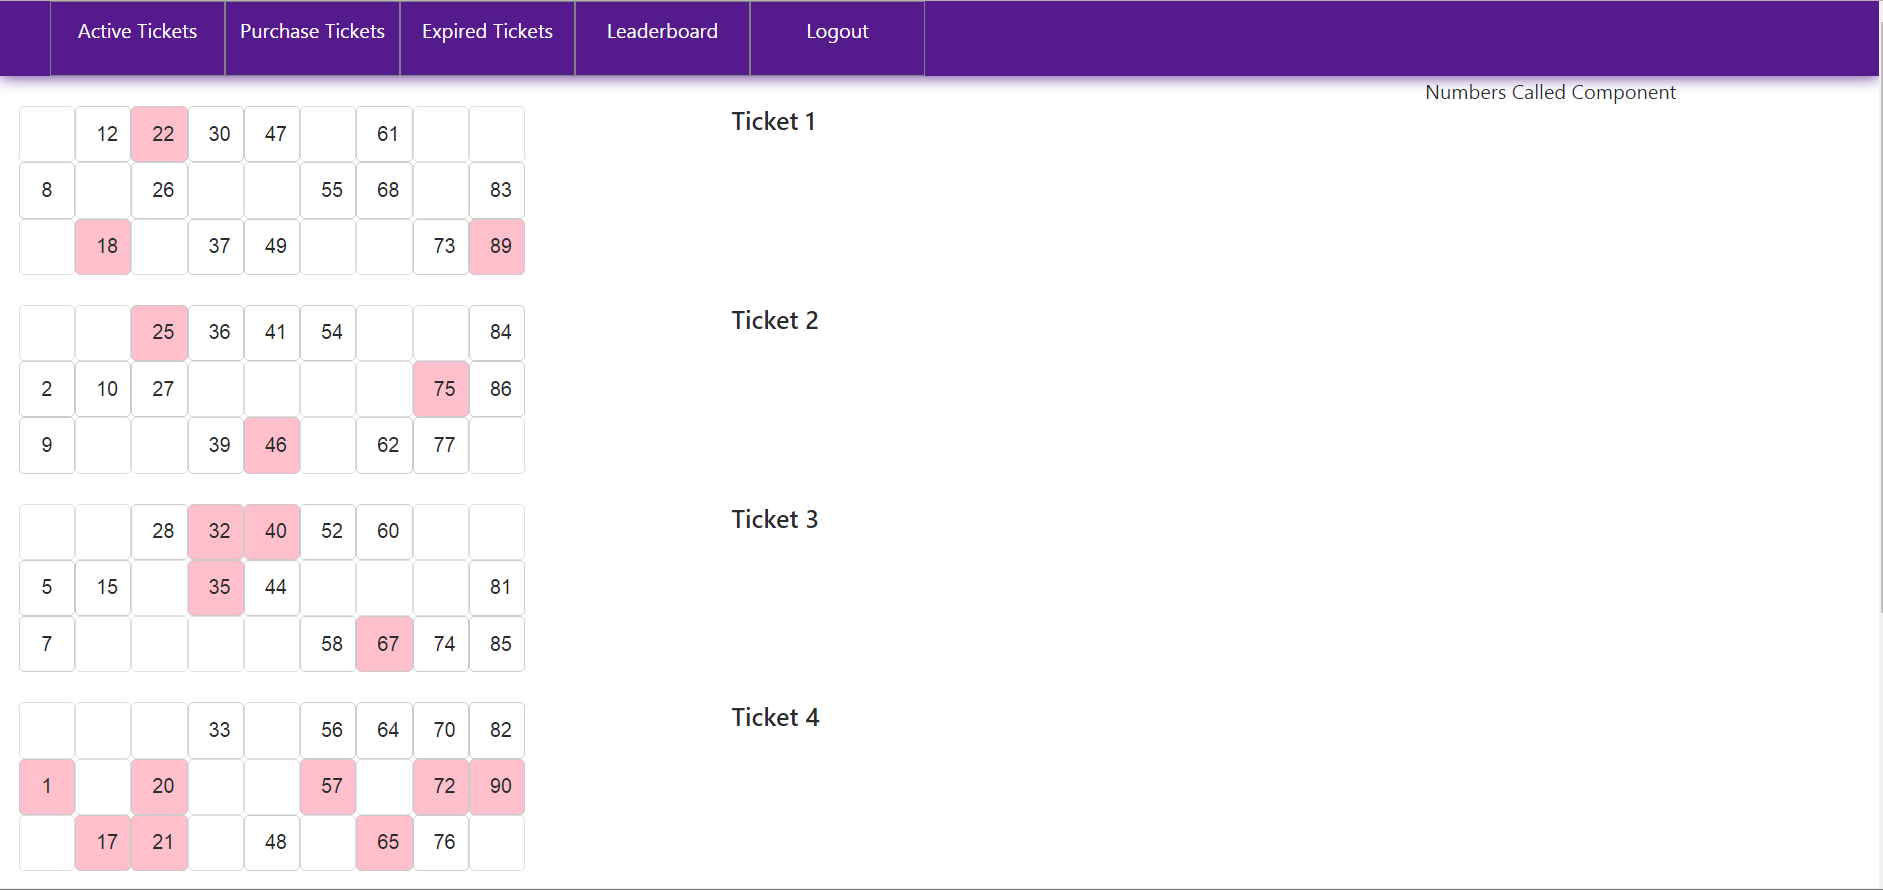
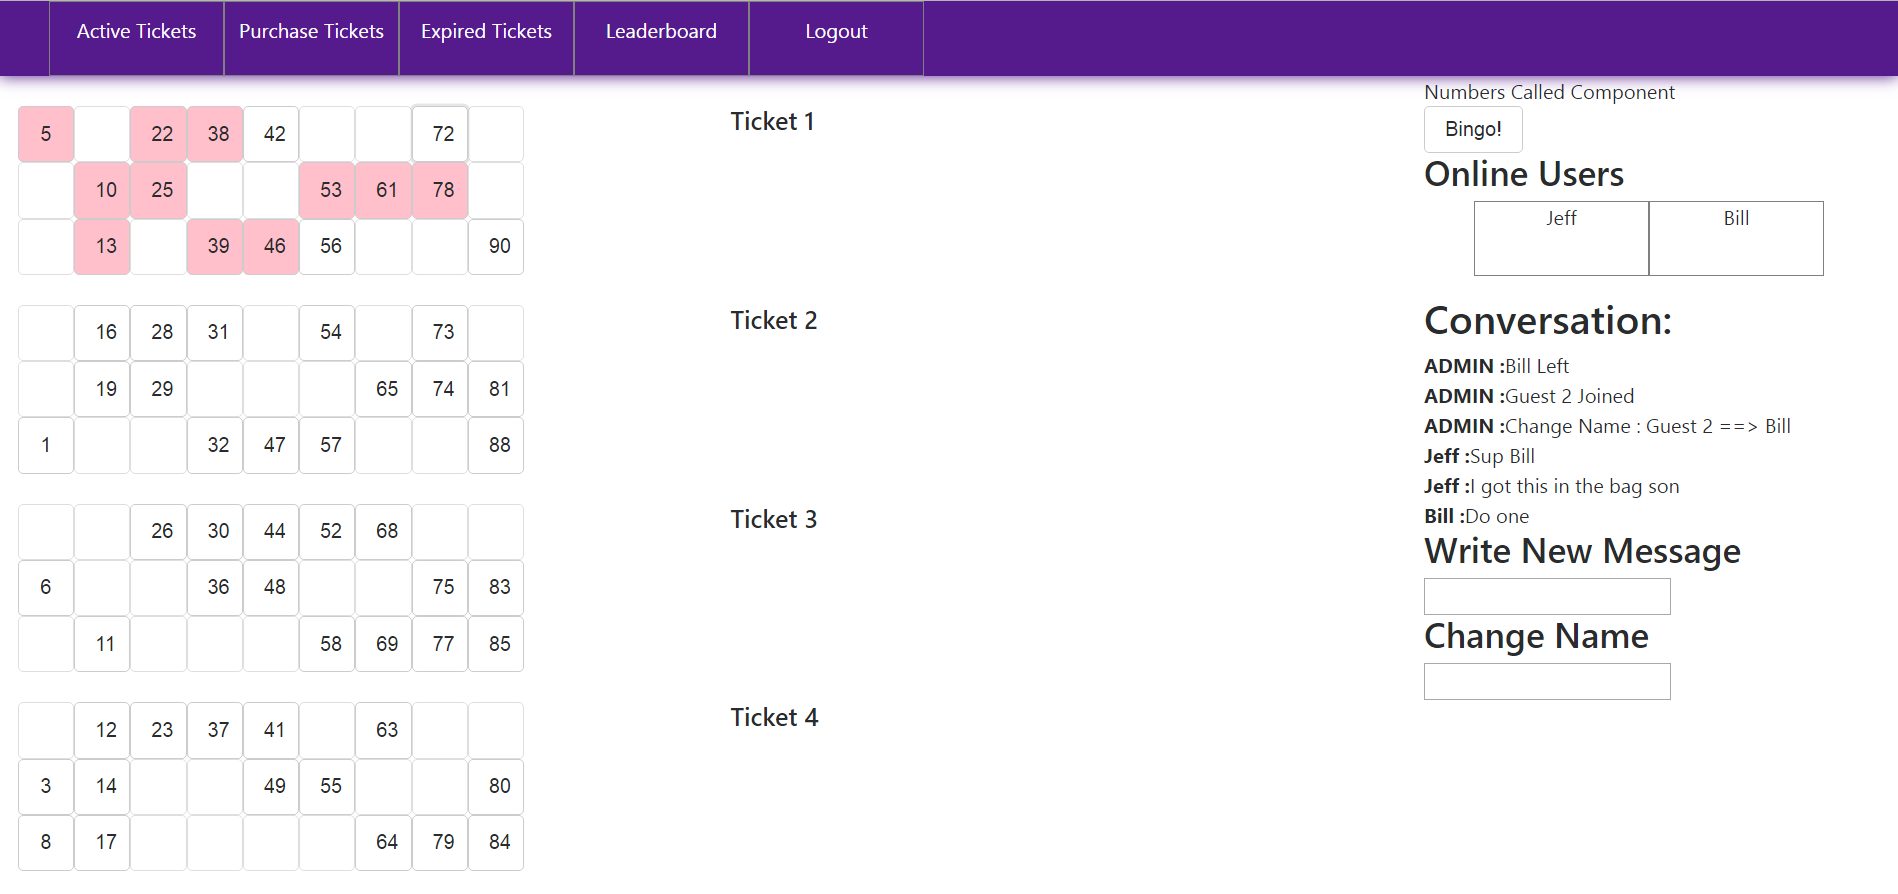
Updated bingo button and screenshot

diff --git a/src/view/components/BingoButton.js b/src/view/components/BingoButton.js
@@ -8,7 +8,11 @@ class BingoButton extends Component {
     componentDidMount() {
         const { socket } = this.props;
         socket.on('deliverBingo', function (bingo) {
-            console.log(bingo)
+            if (bingo){
+                alert("Bingo! You win")
+            } else {
+                alert("No Dice")
+            }
         }.bind(this));
     }
 
